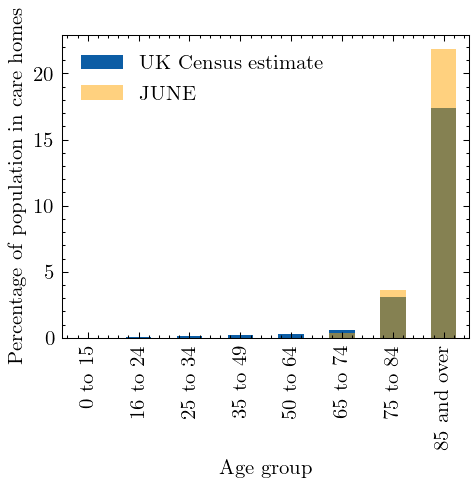
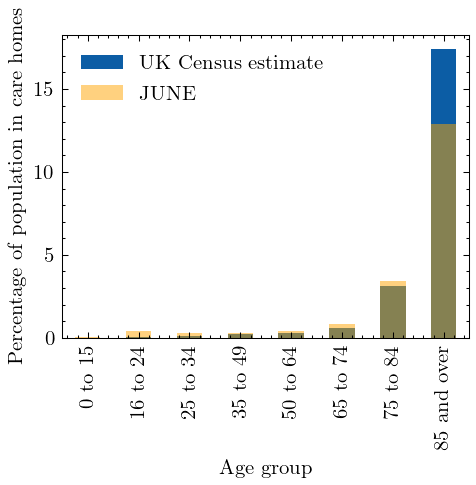
included 150 yo

diff --git a/scripts/create_world.py b/scripts/create_world.py
@@ -26,16 +26,11 @@ if "E00004734" not in london_areas:
     london_areas = np.append(london_areas, "E02000187")
 
 # add some people commuting from Cambridge
-london_areas = np.concatenate(
-    (london_areas, ["E02003719", "E02003720", "E02003721"])
-)
+london_areas = np.concatenate((london_areas, ["E02003719", "E02003720", "E02003721"]))
 
 # add Bath as well to have a city with no stations
 london_areas = np.concatenate(
-    (
-        london_areas,
-        ["E02002988", "E02002989", "E02002990", "E02002991", "E02002992",],
-    )
+    (london_areas, ["E02002988", "E02002989", "E02002990", "E02002991", "E02002992",],)
 )
 
 
@@ -45,28 +40,28 @@ t1 = time.time()
 config_path = "./config_simulation.yaml"
 
 # define geography, let's run the first 20 super areas of london
-#geography = Geography.from_file({"super_area": london_areas})
-geography = Geography.from_file({"region": ["North East"]})
+geography = Geography.from_file({"super_area": london_areas})
+# geography = Geography.from_file({"region": ["North East"]})
 
 # add buildings
-#geography.hospitals = Hospitals.for_geography(geography)
-#geography.companies = Companies.for_geography(geography)
-#geography.schools = Schools.for_geography(geography)
-#geography.universities = Universities.for_super_areas(geography.super_areas)
+geography.hospitals = Hospitals.for_geography(geography)
+geography.companies = Companies.for_geography(geography)
+geography.schools = Schools.for_geography(geography)
+geography.universities = Universities.for_super_areas(geography.super_areas)
 geography.care_homes = CareHomes.for_geography(geography)
 ## generate world
-world = generate_world_from_geography(geography, include_households=False)
+world = generate_world_from_geography(geography, include_households=True)
 #
 ## some leisure activities
-#world.pubs = Pubs.for_geography(geography)
-#world.cinemas = Cinemas.for_geography(geography)
-#world.groceries = Groceries.for_geography(geography)
-#leisure = generate_leisure_for_config(world, config_filename=config_path)
-#leisure.distribute_social_venues_to_areas(
-#    areas=world.areas, super_areas=world.super_areas
-#)  # this assigns possible social venues to people.
-#travel = Travel()
-#travel.initialise_commute(world)
+world.pubs = Pubs.for_geography(geography)
+world.cinemas = Cinemas.for_geography(geography)
+world.groceries = Groceries.for_geography(geography)
+leisure = generate_leisure_for_config(world, config_filename=config_path)
+leisure.distribute_social_venues_to_areas(
+    areas=world.areas, super_areas=world.super_areas
+)  # this assigns possible social venues to people.
+travel = Travel()
+travel.initialise_commute(world)
 t2 = time.time()
 print(f"Took {t2 -t1} seconds to run.")
 # save the world to hdf5 to load it later

diff --git a/plots/scripts/care_homes/care_home_plots.py b/plots/scripts/care_homes/care_home_plots.py
@@ -58,7 +58,7 @@ class CareHomePlots:
         age_intervals = []
         for name in self.percent.index:
             if name == "85 and over":
-                age_intervals.append([85, 100])
+                age_intervals.append([85, 150])
             else:
                 interval = [int(value) for value in name.split(" to ")]
                 age_intervals.append(interval)
